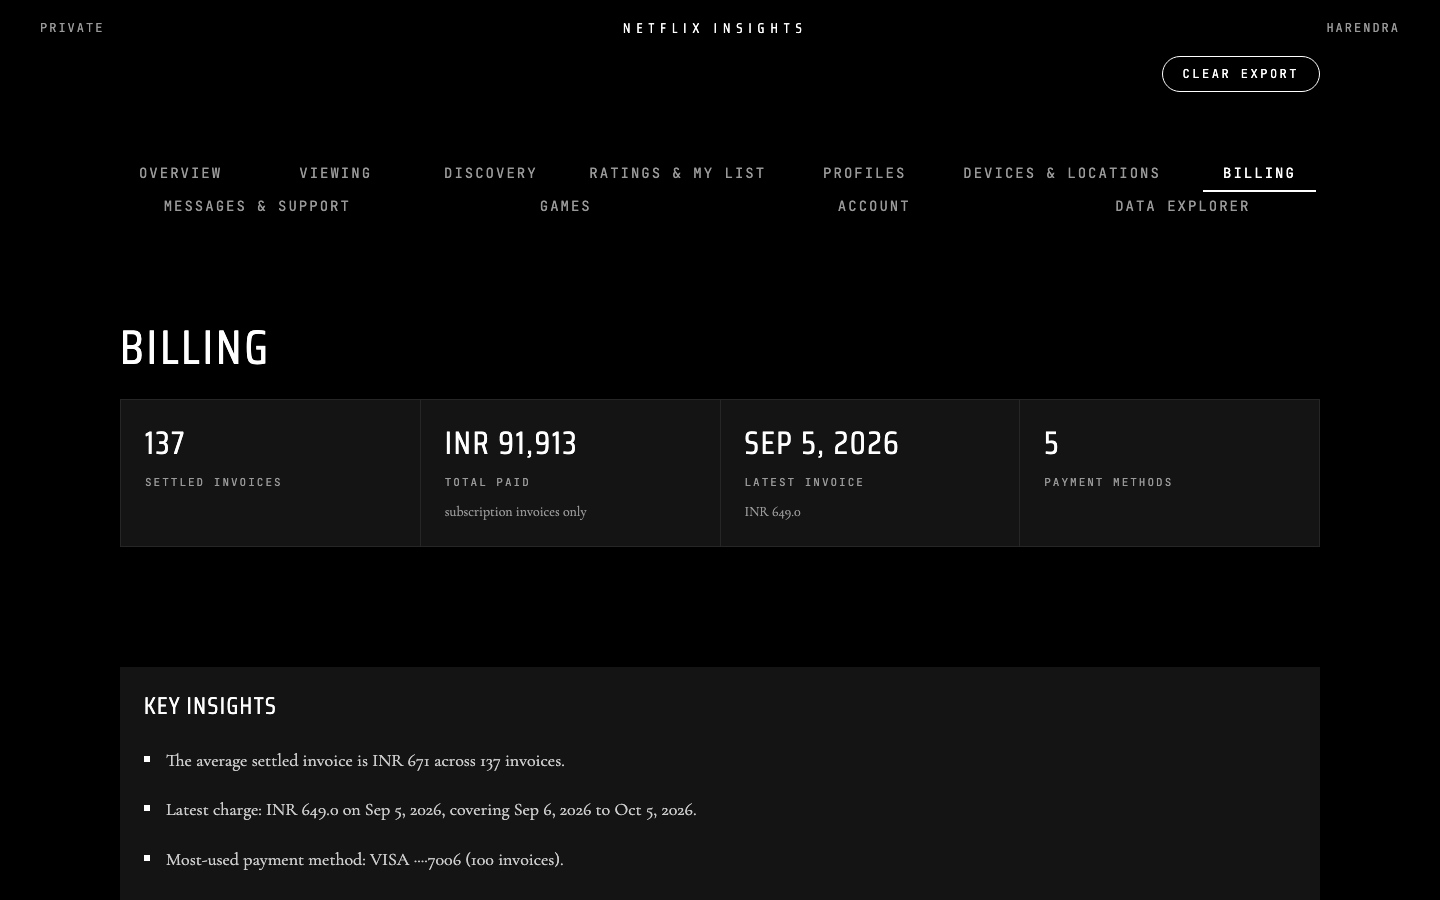
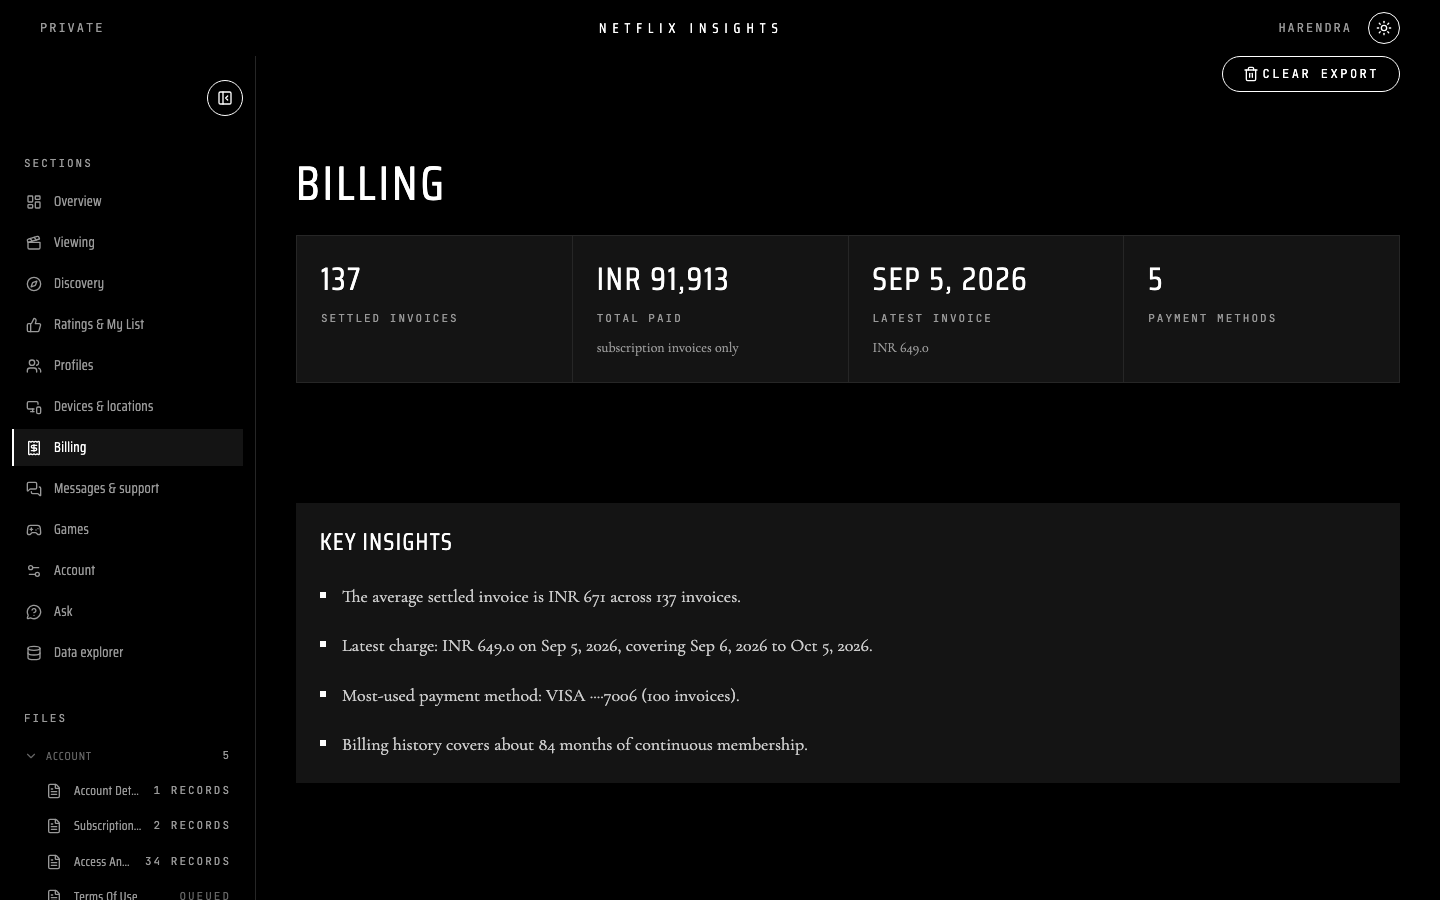
docs: screenshots for all 12 tabs in dark and light themes
New scripts/shots-tabs.mjs sweep (1440px); README gallery table;
AGENTS.md script index.

diff --git a/README.md b/README.md
@@ -61,7 +61,26 @@ UX details:
 - Skeleton loading states mirror each tab's layout while its source files parse.
 - Route loaders pre-parse each tab's files; hover/focus intent preloading starts the load before the click. Visited tabs stay mounted for instant revisits.
 
-More screenshots: `screenshots/` (landing, overview, viewing, geomap + light-mode and 390px mobile variants).
+More screenshots: `screenshots/` also holds landing, geomap, and 390px mobile variants.
+
+## Screenshots
+
+Every tab, dark and light (1440px, regenerated with `node scripts/shots-tabs.mjs`):
+
+| Tab | Dark | Light |
+| --- | --- | --- |
+| Overview | <img src="screenshots/overview-1440.png" width="420" alt="Overview dark"> | <img src="screenshots/overview-light-1440.png" width="420" alt="Overview light"> |
+| Viewing | <img src="screenshots/viewing-1440.png" width="420" alt="Viewing dark"> | <img src="screenshots/viewing-light-1440.png" width="420" alt="Viewing light"> |
+| Discovery | <img src="screenshots/discovery-1440.png" width="420" alt="Discovery dark"> | <img src="screenshots/discovery-light-1440.png" width="420" alt="Discovery light"> |
+| Ratings & My List | <img src="screenshots/ratings-1440.png" width="420" alt="Ratings dark"> | <img src="screenshots/ratings-light-1440.png" width="420" alt="Ratings light"> |
+| Profiles | <img src="screenshots/profiles-1440.png" width="420" alt="Profiles dark"> | <img src="screenshots/profiles-light-1440.png" width="420" alt="Profiles light"> |
+| Devices & locations | <img src="screenshots/devices-1440.png" width="420" alt="Devices dark"> | <img src="screenshots/devices-light-1440.png" width="420" alt="Devices light"> |
+| Billing | <img src="screenshots/billing-1440.png" width="420" alt="Billing dark"> | <img src="screenshots/billing-light-1440.png" width="420" alt="Billing light"> |
+| Messages & support | <img src="screenshots/messages-1440.png" width="420" alt="Messages dark"> | <img src="screenshots/messages-light-1440.png" width="420" alt="Messages light"> |
+| Games | <img src="screenshots/games-1440.png" width="420" alt="Games dark"> | <img src="screenshots/games-light-1440.png" width="420" alt="Games light"> |
+| Account | <img src="screenshots/account-1440.png" width="420" alt="Account dark"> | <img src="screenshots/account-light-1440.png" width="420" alt="Account light"> |
+| Ask | <img src="screenshots/ask-1440.png" width="420" alt="Ask dark"> | <img src="screenshots/ask-light-1440.png" width="420" alt="Ask light"> |
+| Data explorer | <img src="screenshots/explorer-1440.png" width="420" alt="Explorer dark"> | <img src="screenshots/explorer-light-1440.png" width="420" alt="Explorer light"> |
 
 ## Optional AI features (BYO key, off by default)
 

diff --git a/AGENTS.md b/AGENTS.md
@@ -38,6 +38,7 @@ node scripts/smoke.mjs         # needs dist/ + real export
 node scripts/verify-charts.mjs
 node scripts/verify-chips.mjs
 node scripts/shots.mjs
+node scripts/shots-tabs.mjs   # all 12 tabs, dark + light (screenshots/<slug>[-light]-1440.png)
 ```
 
 ## Guardrails
